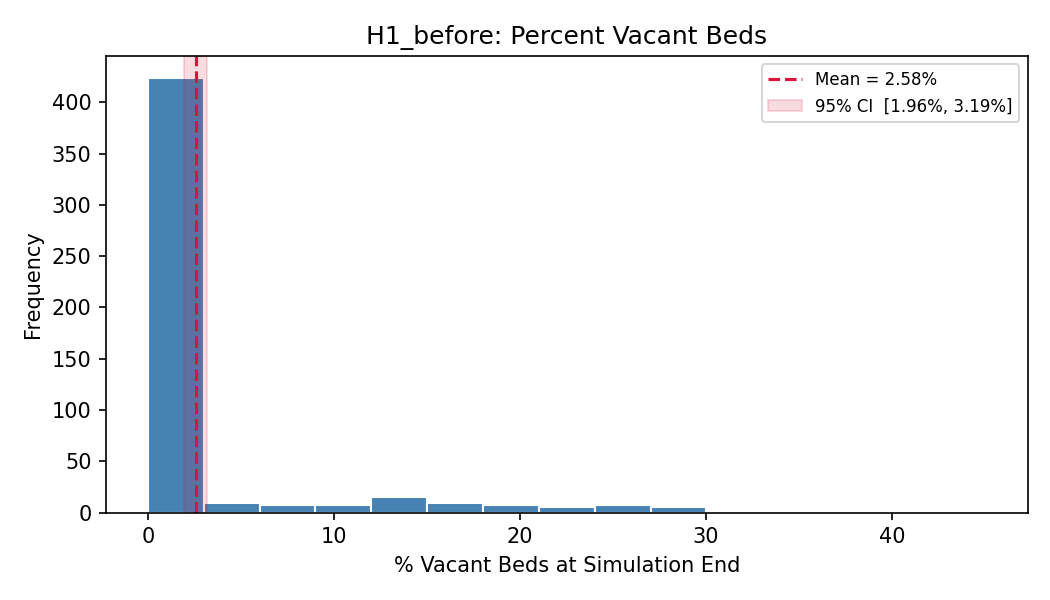
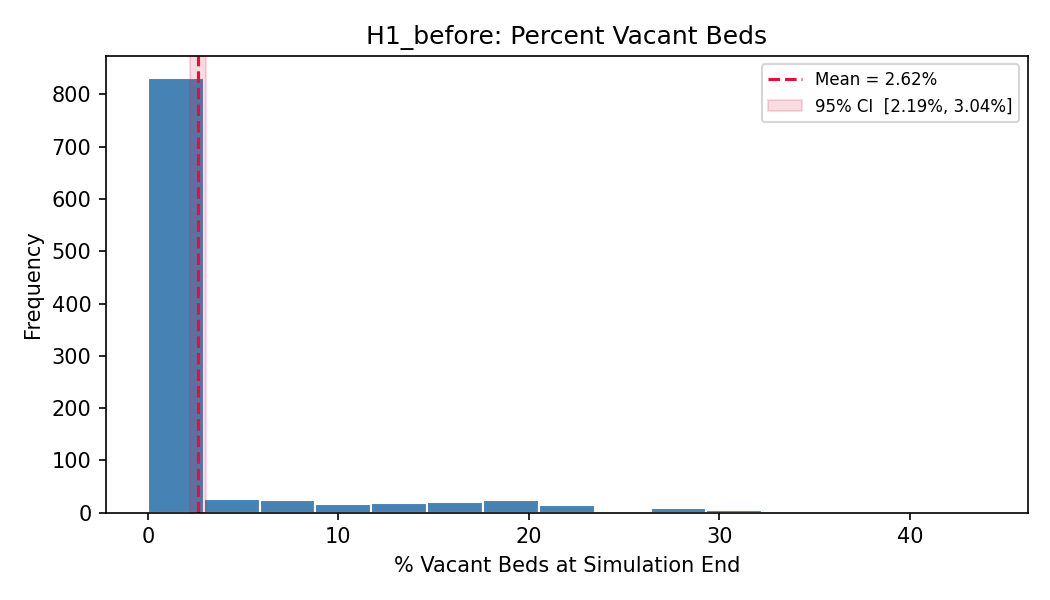
1000ver

diff --git a/README.md b/README.md
@@ -1,8 +1,203 @@
 # Monte Carlo Simulation of Hospital Bed Capacity Under Surge Conditions
 
-**Team Member:** Xujun Zhou  
+**Author:** Xujun Zhou  
+**Course:** IS597PR
 **Project Type:** Type I
 
-## Overview
+---
 
-This project critiques and improves a 2020 Monte Carlo simulation that modeled COVID-19-driven hospital bed capacity overload in the Chicago area using a SEIR framework. The original contained critical coding errors that caused the susceptible population to never change, breaking the model's core logic. This project fixes those errors and extends the simulation with two new surge scenarios.
+## Abstract
+
+This project is based on a Monte Carlo simulation study conducted as part of a 2020 course (Sanvaliya, Gupta, and Deshpande). That study utilized the SEIR model framework to simulate hospital bed overload in Chicago due to COVID-19. The original code contained structural errors. This project corrects these errors and calibrates the infection parameters for several different variants based on real-world data. Additionally, influenza is introduced as a confounding factor, and 1,000 Monte Carlo simulations are performed for each scenario.
+
+---
+
+## 1. Background and Motivation
+
+Sanvaliya et al. (2020) examined whether doubling the number of available hospital beds in the Chicago area (population 2.71 million; approximately 33,000 acute care beds) during a surge in COVID-19 cases would completely eliminate bed shortages. Their main conclusion was that doubling the number of beds could *completely eliminate* patient overflow.
+
+A review of the original code indicates that this conclusion was a spurious result caused by a bug, rather than a true characteristic of the pandemic dynamics. My revised model yields entirely different results.
+
+---
+
+## 2. Identified Errors in the Original Code
+
+### 2.1 Static Susceptible Compartment
+
+The most consequential bug appears in the SEIR update loop (`PR_final_project_oringin.py`, line 247):
+
+```python
+susceptible = susceptible - int(Variables.s_e()) * infected * susceptible
+```
+
+`Variables.s_e()` returns a transmission rate β in the range [0.07, 0.125]. Applying `int()` truncates this value to **zero on every call**, so `new_exposed` is always zero and the susceptible pool never depletes. As a result, the number of patients in the model remains constant throughout the simulation. Under these conditions, regardless of the basic reproduction number (R₀), the outbreak will not accelerate.
+
+### 2.2 Missing Population Denominator
+
+Exposed (E) was re-drawn as an independent random variable mid-loop, meaning S + E + I + R ≠ N. People were being created and destroyed at every timestep. The original code does not enforce population conservation, and the exposed compartment is not updated as a function of the current susceptible and infected counts. This violates the core principle of compartmental models that the total population is fixed and that transitions between compartments are governed by rates.
+
+---
+
+## 3. Corrected Model
+
+### 3.1 SEIR Dynamics
+
+The corrected SEIR model is implemented in `utilities/seir.py`. The susceptible population is updated according to the standard formula:
+
+```python
+new_exposed = int(β * infected * susceptible / population)
+susceptible -= new_exposed
+exposed += new_exposed - int(σ * exposed)
+infected += int(σ * exposed) - int(γ * infected)
+recovered += int(γ * infected)
+```
+
+### 3.2 Variant Classes
+
+Four pathogen variants are implemented in `utilities/variants.py`:
+
+| Variant | R₀ range | Hospitalization rate | Source calibration |
+|---|---|---|---|
+| Original (Wuhan) | 2–3 | 3.5% | WHO / CDC early estimates |
+| Delta | 5–8 | 17% | Samieefar et al. (2022) |
+| Omicron (BA.1/BA.2) | 10–16 | 1% | WHO TAG-VE (Jan 2022)|
+| Influenza (seasonal) | 1.2–1.4 | 1.5% | CDC FluView (seasonal) |
+
+### 3.3 Dual-Pathogen Extension
+
+`dual_model` (`utilities/seir.py`) runs independent SEIR streams for COVID-19 and influenza against the same population and sums their daily hospitalization loads before passing the combined count to the bed-tracking module.
+
+---
+
+## 4. Hypotheses and Results
+
+### 4.1 H1 — Does Doubling Beds Eliminate COVID-Only Overflow?
+
+**Hypothesis:** Doubling the bed count from 33,000 to 66,000 eliminates overflow under a Delta-variant COVID-only surge.
+
+| Scenario | Beds | Overflow Probability | Mean Overflow Day | 95% CI | Mean Vacancy % | 95% CI |
+|---|---:|---:|---:|---:|---:|---:|
+| Baseline | 33,000 | **82.2%** | 57.6 | [57.6, 57.7] | 2.62% | [2.19%, 3.04%] |
+| Doubled  | 66,000 | **6.3%**  | 58.7 | [58.5, 58.8] | 35.12% | [34.07%, 36.17%] |
+
+**Finding:** Although increasing the number of hospital beds reduced the probability of overflow from 82.2% to 6.3%, it did not completely eliminate the risk.
+
+| Baseline | Doubled |
+|---|---|
+| ![H1 Baseline — beds vs days](test_images/H1_before-beds-vs-days.png) | ![H1 Doubled — beds vs days](test_images/H1_after-beds-vs-days.png) |
+| ![H1 Baseline — overflow histogram](test_images/H1_before-overflow-hist.png) | ![H1 Doubled — overflow histogram](test_images/H1_after-overflow-hist.png) |
+
+---
+
+### 4.2 H2 — Does Influenza Co-Circulation Negate the Benefit of Doubled Beds?
+
+**Hypothesis:** Adding seasonal influenza to a doubled-bed scenario restores meaningful overflow risk, demonstrating that bed expansion alone is an insufficient policy lever.
+
+Both scenarios use 66,000 beds (doubled), Delta variant, no lockdown.
+
+| Scenario | Overflow Probability | Mean Overflow Day | 95% CI | Mean Vacancy % | 95% CI |
+|---|---:|---:|---:|---:|---:|
+| COVID-only | 6.6% | 58.7 | [58.6, 58.8] | 33.61% | [32.56%, 34.65%] |
+| COVID + Influenza | **7.3%** | 58.8 | [58.6, 58.9] | 30.55% | [29.53%, 31.57%] |
+
+**Finding:** Influenza co-circulation raises overflow probability by roughly 11% relative (6.6% → 7.3%) and reduces mean bed vacancy from 33.6% to 30.6%, confirming that dual-pathogen increases system stress even when beds have been doubled.
+
+| COVID-only (doubled beds) | COVID + Influenza (doubled beds) |
+|---|---|
+| ![H2 COVID-only — beds vs days](test_images/H2_covid_only_delta-beds-vs-days.png) | ![H2 Dual pathogen — beds vs days](test_images/H2_dual_pathogen_delta-beds-vs-days.png) |
+
+---
+
+### 4.3 H3 — Do Lockdowns Mitigate Overflow, and Does Variant Matter?
+
+**Hypothesis:** A 25–50% behavioral compliance lockdown reduces overflow probability, but the degree of benefit is strongly modulated by variant transmissibility.
+
+Scenarios are run at baseline beds (33,000) across three lockdown levels and three COVID variants, both with and without concurrent influenza. Full tables are in `simulation_summary.md`; key results are highlighted below.
+
+#### COVID-only overflow probability by variant and lockdown
+
+| Variant | 0% lockdown | 25% lockdown | 50% lockdown |
+|---|---|---|---|
+| Original | 0.0% | 0.0% | 0.0% |
+| Delta | **82.9%** | **0.0%** | 0.0% |
+| Omicron | **100.0%** | **100.0%** | **100.0%** |
+
+**Finding:** Lockdown is highly effective for Delta (82.9% → 0% with only 25% compliance) but completely ineffective for Omicron (100% overflow at all levels). The original strain poses negligible bed demand in this parameter range. Adding influenza modestly increases original and Delta overflow.
+
+![H3 Lockdown — COVID-only by variant](test_images/H3_lockdown_covid_only.png)
+
+![H3 Lockdown — COVID + Influenza by variant](test_images/H3_lockdown_dual.png)
+
+#### Influenza-only infection dynamics across lockdown levels
+
+Influenza alone does not overflow the bed system at any lockdown level. Lockdown substantially compresses both peak infection count and attack rate. This is generally consistent with the decline in influenza cases during the COVID-19 pandemic described in Peek (2021).
+
+![H3 Flu — lockdown comparison](test_images/H3_flu_only-lockdown-comparison.png)
+
+![H3 Flu — infection proportion (0% lockdown)](test_images/H3_flu_only-infection-proportion.png)
+
+---
+
+## 5. Getting Started
+
+### 5.1 Repository Layout
+
+```
+.
+├── main.py                        # CLI entry point
+├── scripts/
+│   ├── h1_bed_doubling.py         # H1 experiment driver
+│   ├── h2_dual_pathogen.py        # H2 experiment driver
+│   └── h3_lockdown_experiment.py  # H3 experiment driver
+├── utilities/
+│   ├── seir.py                    # Corrected SEIR engine
+│   ├── variants.py                # Variant and flu parameter classes
+│   ├── bed_tracking.py            # Admission / discharge accounting
+│   ├── distributions.py           # PERT distribution
+│   ├── plotting.py                # All figure generation
+│   ├── stats.py                   # 95% CI and summary statistics
+│   └── reporting.py               # Markdown summary writer
+├── 2020/                          # Original code, preserved unchanged
+├── test_images/                   # Output plots (generated on run)
+└── simulation_summary.md          # Numeric results (generated on run)
+```
+
+### 5.2 Running the Full Simulation
+
+```bash
+python main.py
+```
+
+This runs all three hypotheses with the defaults: 2,710,000 population, 33,000 beds, 200 simulations, 60 days, multiprocessing enabled.
+
+To increase statistical precision (1,000 simulations matches the published results above):
+
+```bash
+python main.py --sims 1000
+```
+
+Full CLI reference:
+
+```
+usage: main.py [-h] [--hypothesis {h1,h2,h3,all}]
+               [--population POPULATION] [--beds BEDS]
+               [--sims SIMS] [--days DAYS]
+```
+---
+
+## 6. Statement
+The SEIR model structure and Monte Carlo framework in this project are based on the original code by Sanvaliya et al. (2020), but have been refactored and all identified errors have been corrected. The code for generating test images in this project was written with the assistance of Claude. Some sections of this README were translated with the help of DeepL.
+
+## 7. References
+
+Sanvaliya, R., Gupta, T., & Deshpande, V. (2020). *Monte Carlo Simulation on Hospital Capacity during COVID-19*. IS590PR Final Project, University of Illinois Urbana-Champaign. [GitHub](https://github.com/tanyagupta55/final_project_2020Sp)
+
+Samieefar, N., Rashedi, R., Akhlaghdoust, M., Mashhadi, M., Darzi, P., & Rezaei, N. (2022). Delta Variant: The New Challenge of COVID-19 Pandemic, an Overview of Epidemiological, Clinical, and Immune Characteristics. Acta bio-medica : Atenei Parmensis, 93(1), e2022179. https://doi.org/10.23750/abm.v93i1.12210
+
+Buchsbaum, P. (2012). Modified PERT Simulation. *Proceedings of the 2012 Winter Simulation Conference*.
+
+Centers for Disease Control and Prevention. COVID-NET: COVID-19-Associated Hospitalization Surveillance Network. https://gis.cdc.gov/grasp/covidnet/COVID19_3.html
+
+Centers for Disease Control and Prevention. FluView Interactive. https://www.cdc.gov/flu/weekly/fluviewinteractive.htm
+
+World Health Organization. (2022). *Tracking SARS-CoV-2 variants*. https://www.who.int/en/activities/tracking-SARS-CoV-2-variants/

diff --git a/simulation_summary.md b/simulation_summary.md
@@ -1,15 +1,15 @@
 # Hospital Bed Monte Carlo Simulation — Results Summary
 
-**Generated**: 2026-05-06 08:01:52
+**Generated**: 2026-05-13 14:39:07
 
 **Configuration**:
 
 - Population: 2,710,000
 - Total beds: 33,000
 - Simulation days: 60
-- Monte Carlo runs per scenario: 500
+- Monte Carlo runs per scenario: 1000
 - Multiprocessing: enabled
-- Total runtime: 42.6 seconds
+- Total runtime: 49.4 seconds
 
 ---
 
@@ -19,8 +19,8 @@ Compares baseline beds vs doubled beds, no lockdown.
 
 | Scenario | Beds | Overflow Probability | Mean Overflow Day | 95 % CI | Mean Vacancy % | 95 % CI |
 |---|---:|---:|---:|---:|---:|---:|
-| Before | 33,000 | 83.8% | 57.6 | [57.5, 57.7] | 2.13% | [1.61%, 2.65%] |
-| After | 66,000 | 4.2% | 58.8 | [58.5, 59.0] | 34.48% | [33.02%, 35.94%] |
+| Before | 33,000 | 82.2% | 57.6 | [57.6, 57.7] | 2.62% | [2.19%, 3.04%] |
+| After | 66,000 | 6.3% | 58.7 | [58.5, 58.8] | 35.12% | [34.07%, 36.17%] |
 
 ---
 
@@ -30,8 +30,8 @@ Both scenarios at 66,000 beds, no lockdown.
 
 | Scenario | Overflow Probability | Mean Overflow Day | 95 % CI | Mean Vacancy % | 95 % CI |
 |---|---:|---:|---:|---:|---:|
-| COVID-only | 6.8% | 58.6 | [58.4, 58.8] | 35.29% | [33.79%, 36.79%] |
-| COVID + Flu | 9.4% | 58.9 | [58.7, 59.0] | 30.50% | [29.02%, 31.99%] |
+| COVID-only | 6.6% | 58.7 | [58.6, 58.8] | 33.61% | [32.56%, 34.65%] |
+| COVID + Flu | 7.3% | 58.8 | [58.6, 58.9] | 30.55% | [29.53%, 31.57%] |
 
 ---
 
@@ -41,9 +41,9 @@ Both scenarios at 66,000 beds, no lockdown.
 
 | Lockdown | Overflow Probability | Mean Overflow Day | 95 % CI | Mean Vacancy % | 95 % CI |
 |---:|---:|---:|---:|---:|---:|
-| 0% | 0.0% | — | — | 92.22% | [92.09%, 92.35%] |
-| 25% | 0.0% | — | — | 98.26% | [98.24%, 98.29%] |
-| 50% | 0.0% | — | — | 99.43% | [99.43%, 99.44%] |
+| 0% | 0.0% | — | — | 92.18% | [92.08%, 92.28%] |
+| 25% | 0.0% | — | — | 98.27% | [98.25%, 98.29%] |
+| 50% | 0.0% | — | — | 99.43% | [99.43%, 99.43%] |
 
 ### COVID-only by variant
 
@@ -51,7 +51,7 @@ Both scenarios at 66,000 beds, no lockdown.
 
 | Lockdown | Overflow Probability | Mean Overflow Day | 95 % CI | Mean Vacancy % | 95 % CI |
 |---:|---:|---:|---:|---:|---:|
-| 0% | 0.0% | — | — | 99.89% | [99.88%, 99.89%] |
+| 0% | 0.0% | — | — | 99.89% | [99.89%, 99.89%] |
 | 25% | 0.0% | — | — | 99.97% | [99.97%, 99.97%] |
 | 50% | 0.0% | — | — | 99.99% | [99.99%, 99.99%] |
 
@@ -59,17 +59,17 @@ Both scenarios at 66,000 beds, no lockdown.
 
 | Lockdown | Overflow Probability | Mean Overflow Day | 95 % CI | Mean Vacancy % | 95 % CI |
 |---:|---:|---:|---:|---:|---:|
-| 0% | 82.8% | 57.5 | [57.4, 57.6] | 2.03% | [1.54%, 2.51%] |
-| 25% | 0.0% | — | — | 83.50% | [83.16%, 83.85%] |
-| 50% | 0.0% | — | — | 98.66% | [98.64%, 98.68%] |
+| 0% | 82.9% | 57.6 | [57.5, 57.7] | 2.38% | [1.97%, 2.79%] |
+| 25% | 0.0% | — | — | 83.64% | [83.39%, 83.89%] |
+| 50% | 0.0% | — | — | 98.63% | [98.62%, 98.65%] |
 
 #### Omicron
 
 | Lockdown | Overflow Probability | Mean Overflow Day | 95 % CI | Mean Vacancy % | 95 % CI |
 |---:|---:|---:|---:|---:|---:|
-| 0% | 100.0% | 30.2 | [30.2, 30.3] | 0.00% | — |
-| 25% | 100.0% | 35.4 | [35.3, 35.4] | 0.00% | — |
-| 50% | 100.0% | 45.2 | [45.1, 45.3] | 0.00% | — |
+| 0% | 100.0% | 30.2 | [30.2, 30.2] | 0.00% | — |
+| 25% | 100.0% | 35.3 | [35.2, 35.3] | 0.00% | — |
+| 50% | 100.0% | 45.3 | [45.2, 45.3] | 0.00% | — |
 
 ### COVID + Influenza by variant
 
@@ -77,41 +77,41 @@ Both scenarios at 66,000 beds, no lockdown.
 
 | Lockdown | Overflow Probability | Mean Overflow Day | 95 % CI | Mean Vacancy % | 95 % CI |
 |---:|---:|---:|---:|---:|---:|
-| 0% | 0.0% | — | — | 92.06% | [91.93%, 92.19%] |
-| 25% | 0.0% | — | — | 98.24% | [98.22%, 98.26%] |
-| 50% | 0.0% | — | — | 99.42% | [99.42%, 99.43%] |
+| 0% | 0.0% | — | — | 92.07% | [91.97%, 92.17%] |
+| 25% | 0.0% | — | — | 98.24% | [98.22%, 98.25%] |
+| 50% | 0.0% | — | — | 99.43% | [99.42%, 99.43%] |
 
 #### Delta
 
 | Lockdown | Overflow Probability | Mean Overflow Day | 95 % CI | Mean Vacancy % | 95 % CI |
 |---:|---:|---:|---:|---:|---:|
-| 0% | 90.0% | 57.4 | [57.3, 57.5] | 1.45% | [0.99%, 1.90%] |
-| 25% | 0.0% | — | — | 82.02% | [81.66%, 82.38%] |
-| 50% | 0.0% | — | — | 98.08% | [98.06%, 98.11%] |
+| 0% | 89.9% | 57.3 | [57.2, 57.4] | 1.23% | [0.94%, 1.52%] |
+| 25% | 0.0% | — | — | 81.61% | [81.37%, 81.86%] |
+| 50% | 0.0% | — | — | 98.07% | [98.06%, 98.09%] |
 
 #### Omicron
 
 | Lockdown | Overflow Probability | Mean Overflow Day | 95 % CI | Mean Vacancy % | 95 % CI |
 |---:|---:|---:|---:|---:|---:|
-| 0% | 100.0% | 30.1 | [30.1, 30.2] | 0.00% | — |
-| 25% | 100.0% | 35.3 | [35.2, 35.4] | 0.00% | — |
-| 50% | 100.0% | 45.3 | [45.2, 45.3] | 0.00% | — |
+| 0% | 100.0% | 30.2 | [30.1, 30.2] | 0.00% | — |
+| 25% | 100.0% | 35.3 | [35.2, 35.3] | 0.00% | — |
+| 50% | 100.0% | 45.2 | [45.2, 45.3] | 0.00% | — |
 
 ### Per-scenario diagnostics
 
 **Omicron-only at lockdown = 0 %** (worst-case COVID surge)
 
 - Overflow probability: 100.0%
-- Mean overflow day: 30.3  (95 % CI [30.2, 30.4])
+- Mean overflow day: 30.2  (95 % CI [30.2, 30.3])
 - Mean vacancy: 0.00%  (95 % CI —)
 
 **Flu-only — infection dynamics across lockdown levels**
 
 | Lockdown | Attack Rate | Attack Rate 5-95 band | Peak Active I | Peak Day |
 |---:|---:|---:|---:|---:|
-| 0% | 1.2470% | [0.8783%, 1.6623%] | 7,447 | 58.0 |
-| 25% | 0.2903% | [0.2361%, 0.3547%] | 842 | 11.6 |
-| 50% | 0.1014% | [0.0909%, 0.1141%] | 794 | 0.0 |
+| 0% | 1.2581% | [0.9288%, 1.6956%] | 7,519 | 57.9 |
+| 25% | 0.2930% | [0.2348%, 0.3623%] | 849 | 13.0 |
+| 50% | 0.1022% | [0.0912%, 0.1148%] | 796 | 0.0 |
 
 ---
 
